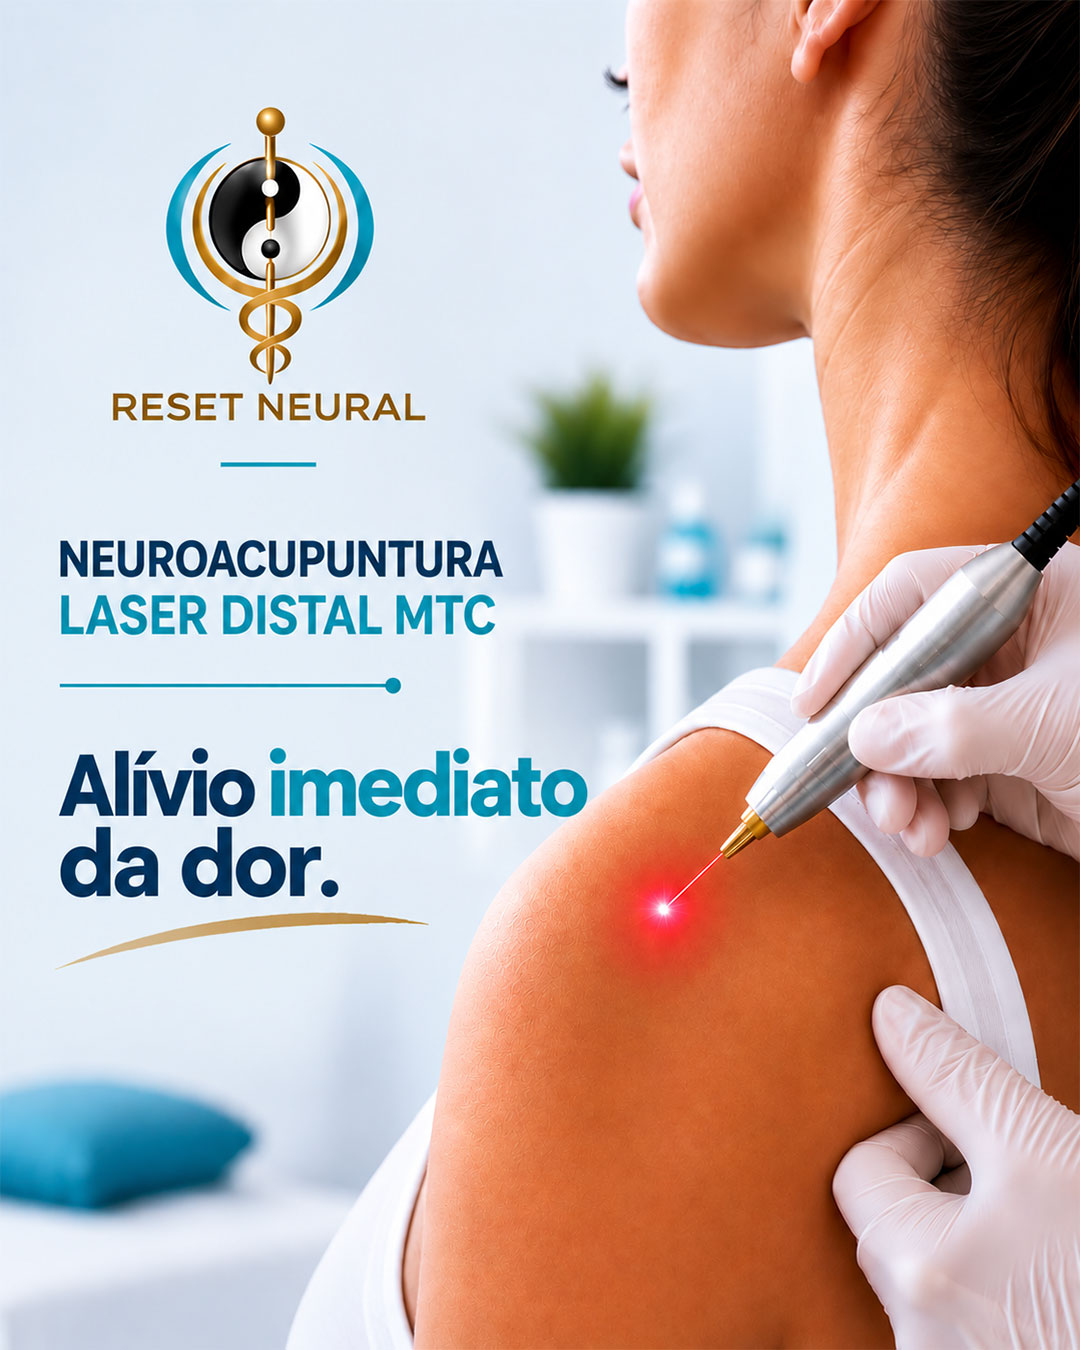
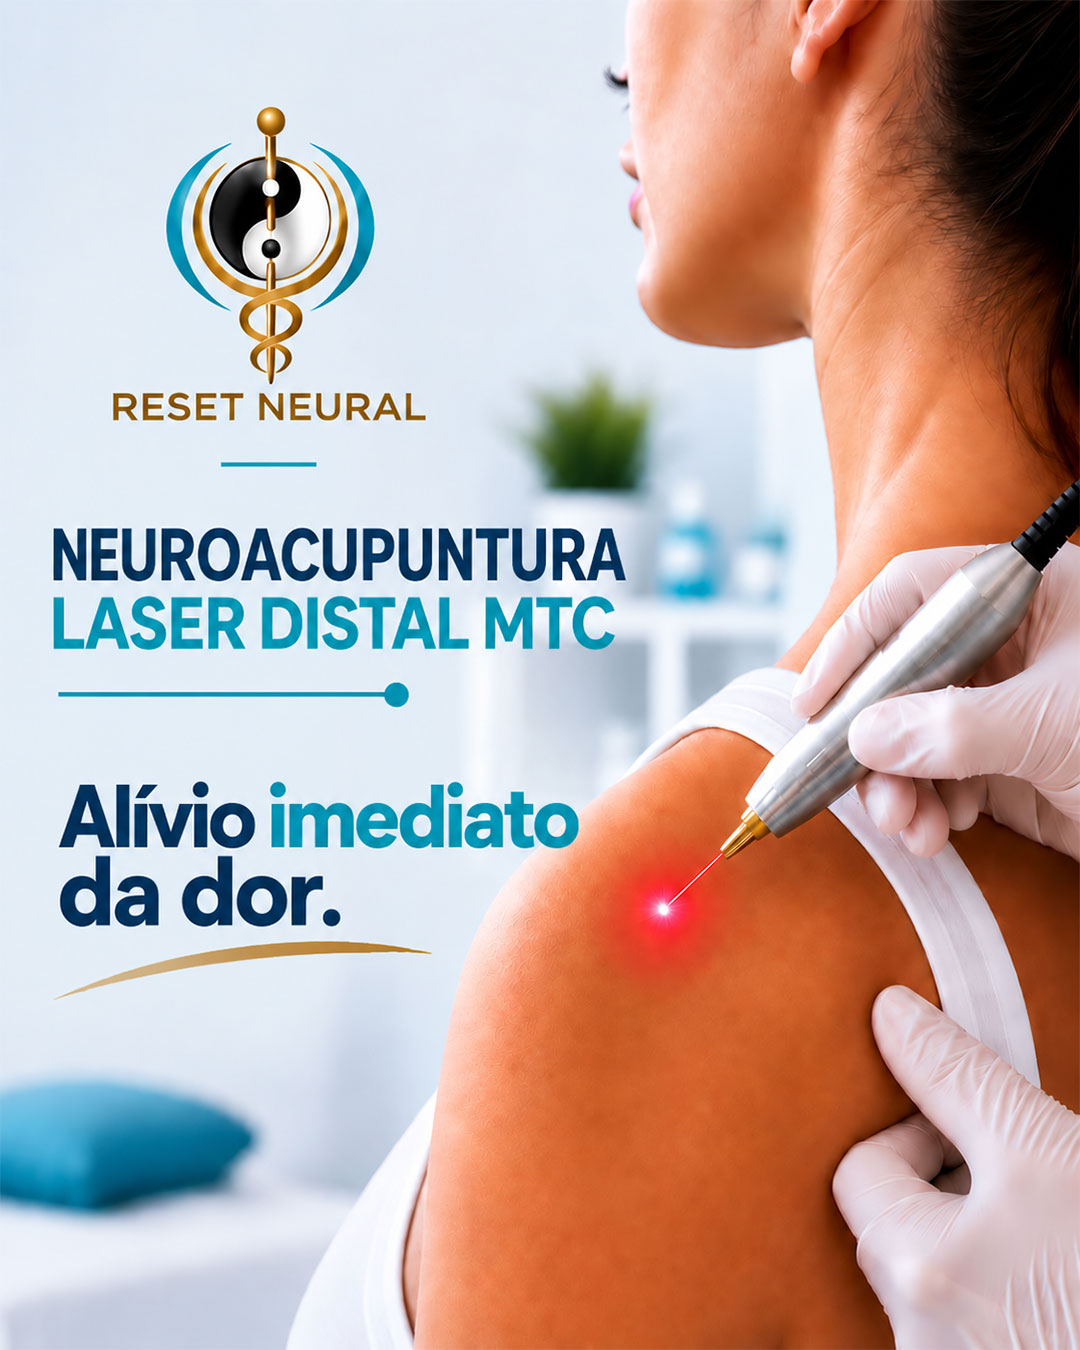
adiciona imagem OG

diff --git a/index.html b/index.html
@@ -4,7 +4,7 @@
 <head>
     <meta charset="UTF-8">
     <meta name="description" content="Reset Neural | Neuroacupuntura Laser Distal MTC para cuidado da dor e bem-estar.">
-    <meta name="keywords" content="neuroacupuntura, laser distal, MTC, dor, bem-estar, home care, São Paulo, ABC Paulista">
+    <meta name="keywords" content="neuroacupuntura, laser distal, MTC, dor, bem-estar, home care, São Paulo, ABC Paulista, acupuntura, terapia, tratamento, saúde, recuperação, alívio da dor">
     <meta name="viewport" content="width=device-width, initial-scale=1.0">
     <meta http-equiv="X-UA-Compatible" content="ie=edge">
     <title>Reset Neural | Neuroacupuntura Laser Distal MTC</title>
@@ -30,6 +30,20 @@
     <link rel="stylesheet" href="css/owl.carousel.min.css" type="text/css">
     <link rel="stylesheet" href="css/slicknav.min.css" type="text/css">
     <link rel="stylesheet" href="css/style.css" type="text/css">
+
+    <!-- Open Graph -->
+<meta property="og:title" content="Reset Neural — Neuroacupuntura Laser Distal MTC">
+<meta property="og:description" content="Neuroacupuntura Laser Distal MTC para alívio da dor e recuperação do bem-estar.">
+<meta property="og:image" content="https://resetneural.com.br/img/og-image.jpg">
+<meta property="og:url" content="https://resetneural.com.br/">
+<meta property="og:type" content="website">
+<meta property="og:site_name" content="Reset Neural">
+
+<!-- WhatsApp / redes sociais -->
+<meta name="twitter:card" content="summary_large_image">
+<meta name="twitter:title" content="Reset Neural — Neuroacupuntura Laser Distal MTC">
+<meta name="twitter:description" content="Neuroacupuntura Laser Distal MTC para alívio da dor e recuperação do bem-estar.">
+<meta name="twitter:image" content="https://resetneural.com.br/img/og-image.jpg">
 
 <style>
 /* Ícones Reset Neural — substituem os desenhos genéricos do template */
@@ -557,7 +571,7 @@ height="0" width="0" style="display:none;visibility:hidden"></iframe></noscript>
                         <a href="#"><i class="fa fa-facebook"></i></a>
                         <a href="#"><i class="fa fa-twitter"></i></a>
                         <a href="#"><i class="fa fa-instagram"></i></a>
-                        <a href="#"><i class="fa fa-dribbble"></i></a>
+                        
                     </div>
                 </div>
             </div> </div>
